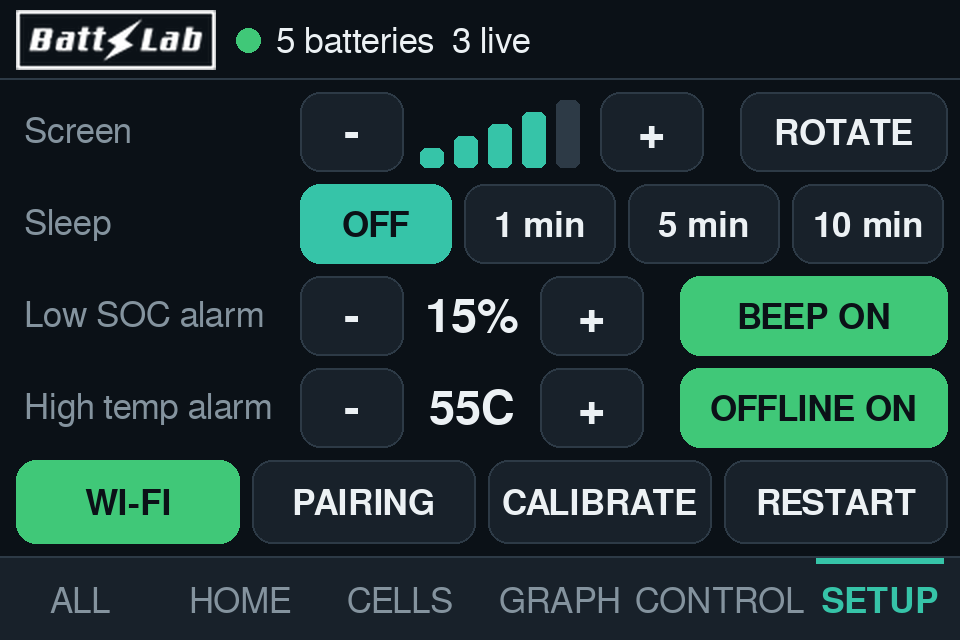
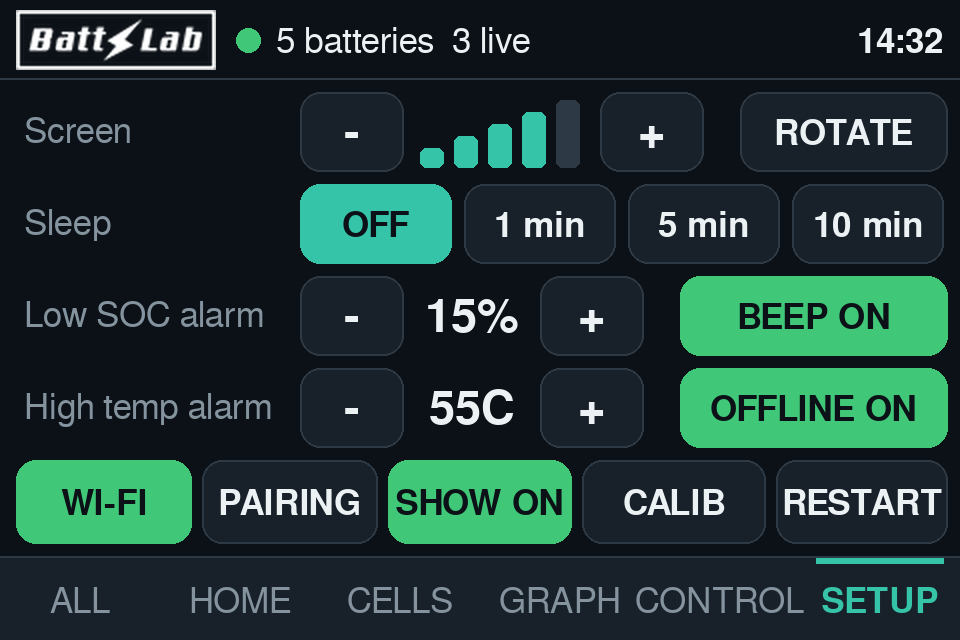
Previews for v2.3.0 screens; gauge label/flow spacing
Claude-Session: https://claude.ai/code/session_01VYdSakDTk2CeAZPFHF5uE7

Changed region(s): [[0.0625, 0.7188, 1.0, 0.875], [0.875, 0.0312, 1.0, 0.0938]]

diff --git a/tools/render_viewer.py b/tools/render_viewer.py
@@ -48,6 +48,7 @@ def header(s, txt, dot=GOOD, nav=False, alarm=None):
         w = s.width(alarm, F9) + 24; s.rr(136, 7, w, 26, 13, fill=BAD); s.text(alarm, 148, 21, F9, TEXT)
     else:
         s.text(txt, 138, 21, F9, TEXT)
+    if not nav: s.text('14:32', 472, 21, F9B, TEXT, 'rm')
     if nav:
         for k, b in enumerate([(372, 4, 50, 32), (426, 4, 50, 32)]):
             s.rr(*b, 8, fill=CARD, outline=LINE); s.text('>' if k else '<', b[0]+25, b[1]+17, F12B, TEXT, 'mm')
@@ -89,7 +90,7 @@ def card(s, k, d, sel=False):
     if d['live']: s.rr(x + 10, y + h - 6, int((w - 20) * d['soc'] / 100), 3, 1, fill=soc_col(d['soc']))
 
 def all_page(alarm=None):
-    s = Scr(); header(s, '5 batteries  3 live', alarm=alarm)
+    s = Scr(); header(s, '5 batteries  3 live  +665W', alarm=alarm)
     for k, d in enumerate(FLEET): card(s, k, d, sel=k == 0)
     tabs(s, 0); return s
 
@@ -104,12 +105,21 @@ def home():
     d = FLEET[1]; s = Scr(); header(s, f"{d['n']}  {d['st']}", nav=True)
     cx, cy = 106, 150
     s.arc(cx, cy, 71, 86, 135, 405, LINE); s.arc(cx, cy, 71, 86, 135, 135 + 270 * d['soc'] / 100, soc_col(d['soc']))
-    s.text(f"{d['soc']}%", cx, cy - 4, F24B, TEXT, 'mm'); s.text('SOC', cx, cy + 34, F9, MUTED, 'mm')
+    s.text(f"{d['soc']}%", cx, cy - 4, F24B, TEXT, 'mm'); s.text('SOC', cx, cy + 25, F9, MUTED, 'mm')
+    for k in range(3):
+        x = cx - 32 + 6 + k * 20; c = GOOD if k == 1 else LINE
+        s.d.polygon([(x*S, (cy+51)*S), ((x+16)*S, (cy+51)*S), ((x+8)*S, (cy+40)*S)], fill=c)
     tile(s, 214, 46, 126, 56, 'VOLTAGE', f"{d['v']:.2f}", 'V', ACCENT); tile(s, 346, 46, 126, 56, 'CURRENT', f"{d['i']:.1f}", 'A', GOOD)
     tile(s, 214, 106, 126, 56, 'POWER', f"{d['v']*d['i']:.0f}", 'W', BLUE); tile(s, 346, 106, 126, 56, 'REMAIN', f"{d['cap']:.1f}", 'Ah', ACCENT)
     tile(s, 214, 166, 126, 56, 'TEMP', f"{d['t']}", 'C', WARN); tile(s, 346, 166, 126, 56, 'MOS', f"{d['mos']}", 'C', WARN)
     s.rr(9, 228, 462, 46, 10, fill=CARD)
-    s.text(f"16S d{d['d']}mV  full 1h01  {d['cyc']}cyc", 21, 251, F9, TEXT)
+    s.text(f"16S d{d['d']}mV  full 1h01", 21, 242, F9, TEXT)
+    s.text('today +4.82 / -1.37 kWh', 21, 261, F9, MUTED)
+    sx, sw, sy, sh = 205, 112, 236, 30
+    s.rr(sx, sy, sw, sh + 1, 0, outline=LINE)
+    pts = [(sx + sw * k / 59, sy + sh - sh * (0.55 + 0.35 * math.sin(k / 9)) ) for k in range(60)]
+    s.d.line([(x*S, y*S) for x, y in pts], fill=ACCENT, width=S)
+    s.text('SOC 24h', sx + 3, sy + 2, ImageFont.truetype(FF + 'FreeMono.ttf', 9 * S), MUTED, 'lt')
     pill(s, 325, 238, 'CHG', True); pill(s, 397, 238, 'DSG', True)
     tabs(s, 1); return s
 
@@ -214,7 +224,7 @@ def setup():
     s.button((270, 138, 52, 40), '+', f=F12B); s.button((340, 138, 134, 40), 'BEEP ON', True, GOOD)
     s.text('High temp alarm', 12, 204, F9, MUTED); s.button((150, 184, 52, 40), '-', f=F12B); s.text('55C', 236, 205, F12B, TEXT, 'mm')
     s.button((270, 184, 52, 40), '+', f=F12B); s.button((340, 184, 134, 40), 'OFFLINE ON', True, GOOD)
-    for i, t in enumerate(['WI-FI', 'PAIRING', 'CALIBRATE', 'RESTART']): s.button((8 + i * 118, 230, 112, 42), t, i == 0, GOOD)
+    for i, (b, t) in enumerate(zip([(8, 230, 88, 42), (101, 230, 88, 42), (194, 230, 92, 42), (291, 230, 92, 42), (388, 230, 86, 42)], ['WI-FI', 'PAIRING', 'SHOW ON', 'CALIB', 'RESTART'])): s.button(b, t, i in (0, 2), GOOD)
     tabs(s, 5); return s
 
 def pairing(paired=False):
@@ -245,6 +255,14 @@ def wifi():
         y = 94 + i * 36; s.rr(12, y, 412, 32, 8, fill=CARD); s.text(nm, 24, y + 17, F9B, TEXT); s.text(f'lock  {r}', 414, y + 17, F9, MUTED, 'rm')
     tabs(s, 5); return s
 
+def big_home():
+    d = FLEET[1]; s = Scr(); header(s, f"{d['n']}  {d['st']}", nav=True)
+    s.text(f"{d['soc']}%", 240, 41 + 74, font(1, 24 * 2.4), TEXT, 'mm')
+    s.rr(40, 41 + 132, 400, 14, 7, fill=LINE); s.rr(40, 41 + 132, 4 * d['soc'], 14, 7, fill=GOOD)
+    s.text(f"{d['v']*d['i']:.0f} W", 130, 41 + 186, F18B, GOOD, 'mm'); s.text(f"{d['v']:.1f} V", 350, 41 + 186, F18B, TEXT, 'mm')
+    s.text(f"{d['n']}   {d['i']:.1f} A   {d['t']} C", 240, 41 + 222, F9, MUTED, 'mm')
+    tabs(s, 1); return s
+
 def boot():
     s = Scr((0, 0, 0)); lg = LOGO_BIG
     s.paste_gray(lg, (480 - lg.width) // 2, 86, (0, 0, 0))
@@ -258,6 +276,7 @@ shots = [
     ('cloudscreen_03_all.png', 'ALL: every battery of the account (tap = open)', all_page()),
     ('cloudscreen_04_all_alarm.png', 'ALL: alarm when a battery is low / hot / offline', all_page('E-bike 60V LOW 12%')),
     ('cloudscreen_05_home.png', 'HOME: one battery, < > switches battery', home()),
+    ('cloudscreen_05b_big.png', 'HOME: tap the gauge = BIG view; SETUP > SHOW rotates batteries', big_home()),
     ('cloudscreen_06_cells.png', 'CELLS: every cell, min blue / max red', cells()),
     ('cloudscreen_07_graph.png', 'GRAPH: SOC / V / A / W / temp, 6H 24H 7D', graph()),
     ('cloudscreen_08_mosfet.png', 'CONTROL > MOSFET: charge / discharge / balance', ctl_mos()),

diff --git a/tools/render_screens.py b/tools/render_screens.py
@@ -55,8 +55,9 @@ def header(s, status, dot=GOOD, rssi='-52 dBm', alarm=None, toast=None):
         w = s.width(alarm, F9) + 24
         s.rr(476 - w, 7, w, 26, 13, fill=BAD)
         s.text(alarm, 476 - w/2, 21, F9, TEXT, 'mm')
-    elif rssi:
-        s.text(rssi, 468, 21, F9, MUTED, 'rm')
+    else:
+        s.text('14:32', 470, 21, F9B, TEXT, 'rm')
+        if rssi: s.text(rssi.replace(' ', ''), 412, 21, F9, MUTED, 'rm')
     s.rect(0, 39, 480, 1, LINE)
 
 def tabs(s, page):
@@ -91,7 +92,10 @@ def home(soc=72, alarm=None, live=True):
     s.arc(cx, cy, 71, 86, 135, 405, LINE)
     s.arc(cx, cy, 71, 86, 135, 135 + 270 * soc / 100, col)
     s.text(f'{soc}%', cx, cy - 4, F24B, TEXT, 'mm')
-    s.text('SOC', cx, cy + 34, F9, MUTED, 'mm')
+    s.text('SOC', cx, cy + 25, F9, MUTED, 'mm')
+    for k in range(3):  # flow chevrons (discharging)
+        x = cx - 32 + 6 + k * 20; c = WARN if k == 1 else LINE
+        s.d.polygon([(x*S, (cy+40)*S), ((x+16)*S, (cy+40)*S), ((x+8)*S, (cy+51)*S)], fill=c)
     p = PACK
     tile(s, 214, 46, 126, 56, 'VOLTAGE', f"{p['v']:.2f}", 'V', ACCENT)
     tile(s, 346, 46, 126, 56, 'CURRENT', f"{p['i']:.1f}", 'A', WARN)
@@ -101,8 +105,23 @@ def home(soc=72, alarm=None, live=True):
     tile(s, 346, 166, 126, 56, 'MOS', f"{p['mos']}", 'C', WARN)
     s.rr(9, 228, 462, 46, 10, fill=CARD)
     mn, mx = min(CELLS20), max(CELLS20)
-    s.text(f"20S  min {mn:.3f}  max {mx:.3f}  d {round((mx-mn)*1000)}mV", 21, 251, F9, TEXT)
+    s.text(f"20S  d{round((mx-mn)*1000)}mV", 21, 242, F9, TEXT)
+    s.text("empty in 2h17", 21, 261, F9, MUTED)
+    sx, sw, sy, sh = 159, 140, 234, 34
+    s.text('10 min W', sx, 229, ImageFont.truetype(FF + 'FreeMono.ttf', 9 * S), MUTED, 'lt')
+    s.rect(sx, sy + 10, sw, 1, LINE)
+    pts = [(sx + sw * k / 59, sy + 10 + 18 * (0.6 + 0.4 * math.sin(k / 6)) ) for k in range(60)]
+    s.d.line([(x*S, y*S) for x, y in pts], fill=WARN, width=S)
     pill(s, 313, 238, 'CHG', True); pill(s, 391, 238, 'DSG', True)
+    tabs(s, 0); return s
+
+def big_home():
+    s = Scr(); header(s, 'JK02_24S  LIVE')
+    s.text('72%', 240, 41 + 74, font(1, 24 * 2.4), TEXT, 'mm')
+    s.rr(40, 41 + 132, 400, 14, 7, fill=LINE); s.rr(40, 41 + 132, 288, 14, 7, fill=GOOD)
+    p = PACK
+    s.text(f"{p['v']*p['i']:.0f} W", 130, 41 + 186, F18B, WARN, 'mm'); s.text(f"{p['v']:.1f} V", 350, 41 + 186, F18B, TEXT, 'mm')
+    s.text('empty in 2h17   -12.6 A   31 C', 240, 41 + 222, F9, MUTED, 'mm')
     tabs(s, 0); return s
 
 def cells(values, title='JK02_24S  LIVE'):
@@ -297,6 +316,7 @@ shots = [
     ('13_info.png', 'INFO: status + HOME WI-FI / CLOUD buttons', info()),
     ('15_wifi_list.png', 'HOME WI-FI: scan and pick your network', wifi_list()),
     ('16_wifi_keyboard.png', 'On-screen keyboard for the Wi-Fi password', keyboard()),
+    ('18_home_big.png', 'HOME: tap the gauge = BIG view (tap again to go back)', big_home()),
     ('17_cloud_pairing.png', 'CLOUD: pair code to add on the website', cloud()),
     ('14_boot_after_crash.png', 'Boot after an abnormal reset', boot('CRASH (panic)', .3)),
 ]
@@ -312,7 +332,7 @@ sheet = Image.new('RGB', (cols * (W + pad) + pad, 90 + rows * (H + capH + pad) +
 d = ImageDraw.Draw(sheet)
 import re as _re
 _fw = _re.search(r'#define BATTLAB_FW "([^"]+)-cyd35"', (ROOT / 'src/main.cpp').read_text()).group(1)
-d.text((pad, 30), f'BATTLAB {_fw} - CYD35 (ESP32-3248S035) screens', font=ImageFont.truetype(FF + 'FreeSansBold.ttf', 30), fill=(20, 30, 40))
+d.text((pad, 30), f'BATTLAB {_fw} - CYD35 BMS screen (ESP32-3248S035)', font=ImageFont.truetype(FF + 'FreeSansBold.ttf', 30), fill=(20, 30, 40))
 for k, (p, cap) in enumerate(paths):
     r, c = divmod(k, cols)
     x, y = pad + c * (W + pad), 90 + r * (H + capH + pad)

diff --git a/src/display.cpp b/src/display.cpp
@@ -363,7 +363,7 @@ static void socGauge(const DisplaySnap &d, bool force) {
   if (soc > 0) tft.fillArc(cx, cy, r0, r1, 135, 135 + 270.f * soc / 100.f, col);
   LGFX_Sprite s(&tft);
   s.setColorDepth(16);
-  if (!s.createSprite(130, 84)) return;
+  if (!s.createSprite(130, 72)) return;
   s.fillSprite(C_BG);
   s.setTextDatum(textdatum_t::middle_center);
   s.setTextColor(C_TEXT, C_BG);
@@ -371,7 +371,7 @@ static void socGauge(const DisplaySnap &d, bool force) {
   s.drawString(soc < 0 ? String("--") : String(soc) + "%", 65, 34);
   s.setFont(&fonts::FreeSans9pt7b);
   s.setTextColor(C_MUTED, C_BG);
-  s.drawString("SOC", 65, 62);
+  s.drawString("SOC", 65, 63);
   s.pushSprite(cx - 65, cy - 38);
   s.deleteSprite();
 }
@@ -535,7 +535,7 @@ static void flowAnim(const DisplaySnap &d) {
     else s.fillTriangle(x, 3, x + 16, 3, x + 8, 14, c);
     if (dir == 0) { s.fillSprite(C_BG); s.fillRoundRect(8, 7, 48, 4, 2, C_LINE); break; }
   }
-  s.pushSprite(106 - 32, 150 + 24);
+  s.pushSprite(106 - 32, 150 + 37);
   s.deleteSprite();
 }
 

diff --git a/src/viewer/viewer.cpp b/src/viewer/viewer.cpp
@@ -863,7 +863,7 @@ static void flowAnim(const DevSum *d) {
       if (dir > 0) s.fillTriangle(x, 14, x + 16, 14, x + 8, 3, c);
       else s.fillTriangle(x, 3, x + 16, 3, x + 8, 14, c);
     }
-  s.pushSprite(106 - 32, 150 + 24);
+  s.pushSprite(106 - 32, 150 + 37);
   s.deleteSprite();
 }
 static void noFocus(const Model &m) {
@@ -898,7 +898,7 @@ static void homePage(const Model &m, bool force) {
   tft.drawString(ok ? String(int(soc + .5f)) + "%" : String("--"), cx, cy - 4);
   tft.setFont(&fonts::FreeSans9pt7b);
   tft.setTextColor(ok ? C_MUTED : C_WARN, C_BG);
-  tft.drawString(ok ? String("SOC") : devState(d), cx, cy + (ok ? 46 : 34));
+  tft.drawString(ok ? String("SOC") : devState(d), cx, cy + (ok ? 25 : 34));
   int x0 = 214, x1 = 346, w = 126, h = 56;
   tile(x0, 46, w, h, "VOLTAGE", ok ? fmt(d.v, 2) : "--", "V", C_ACCENT);
   tile(x1, 46, w, h, "CURRENT", ok ? fmt(d.i, 1) : "--", "A", d.i < 0 ? C_WARN : C_GOOD);
